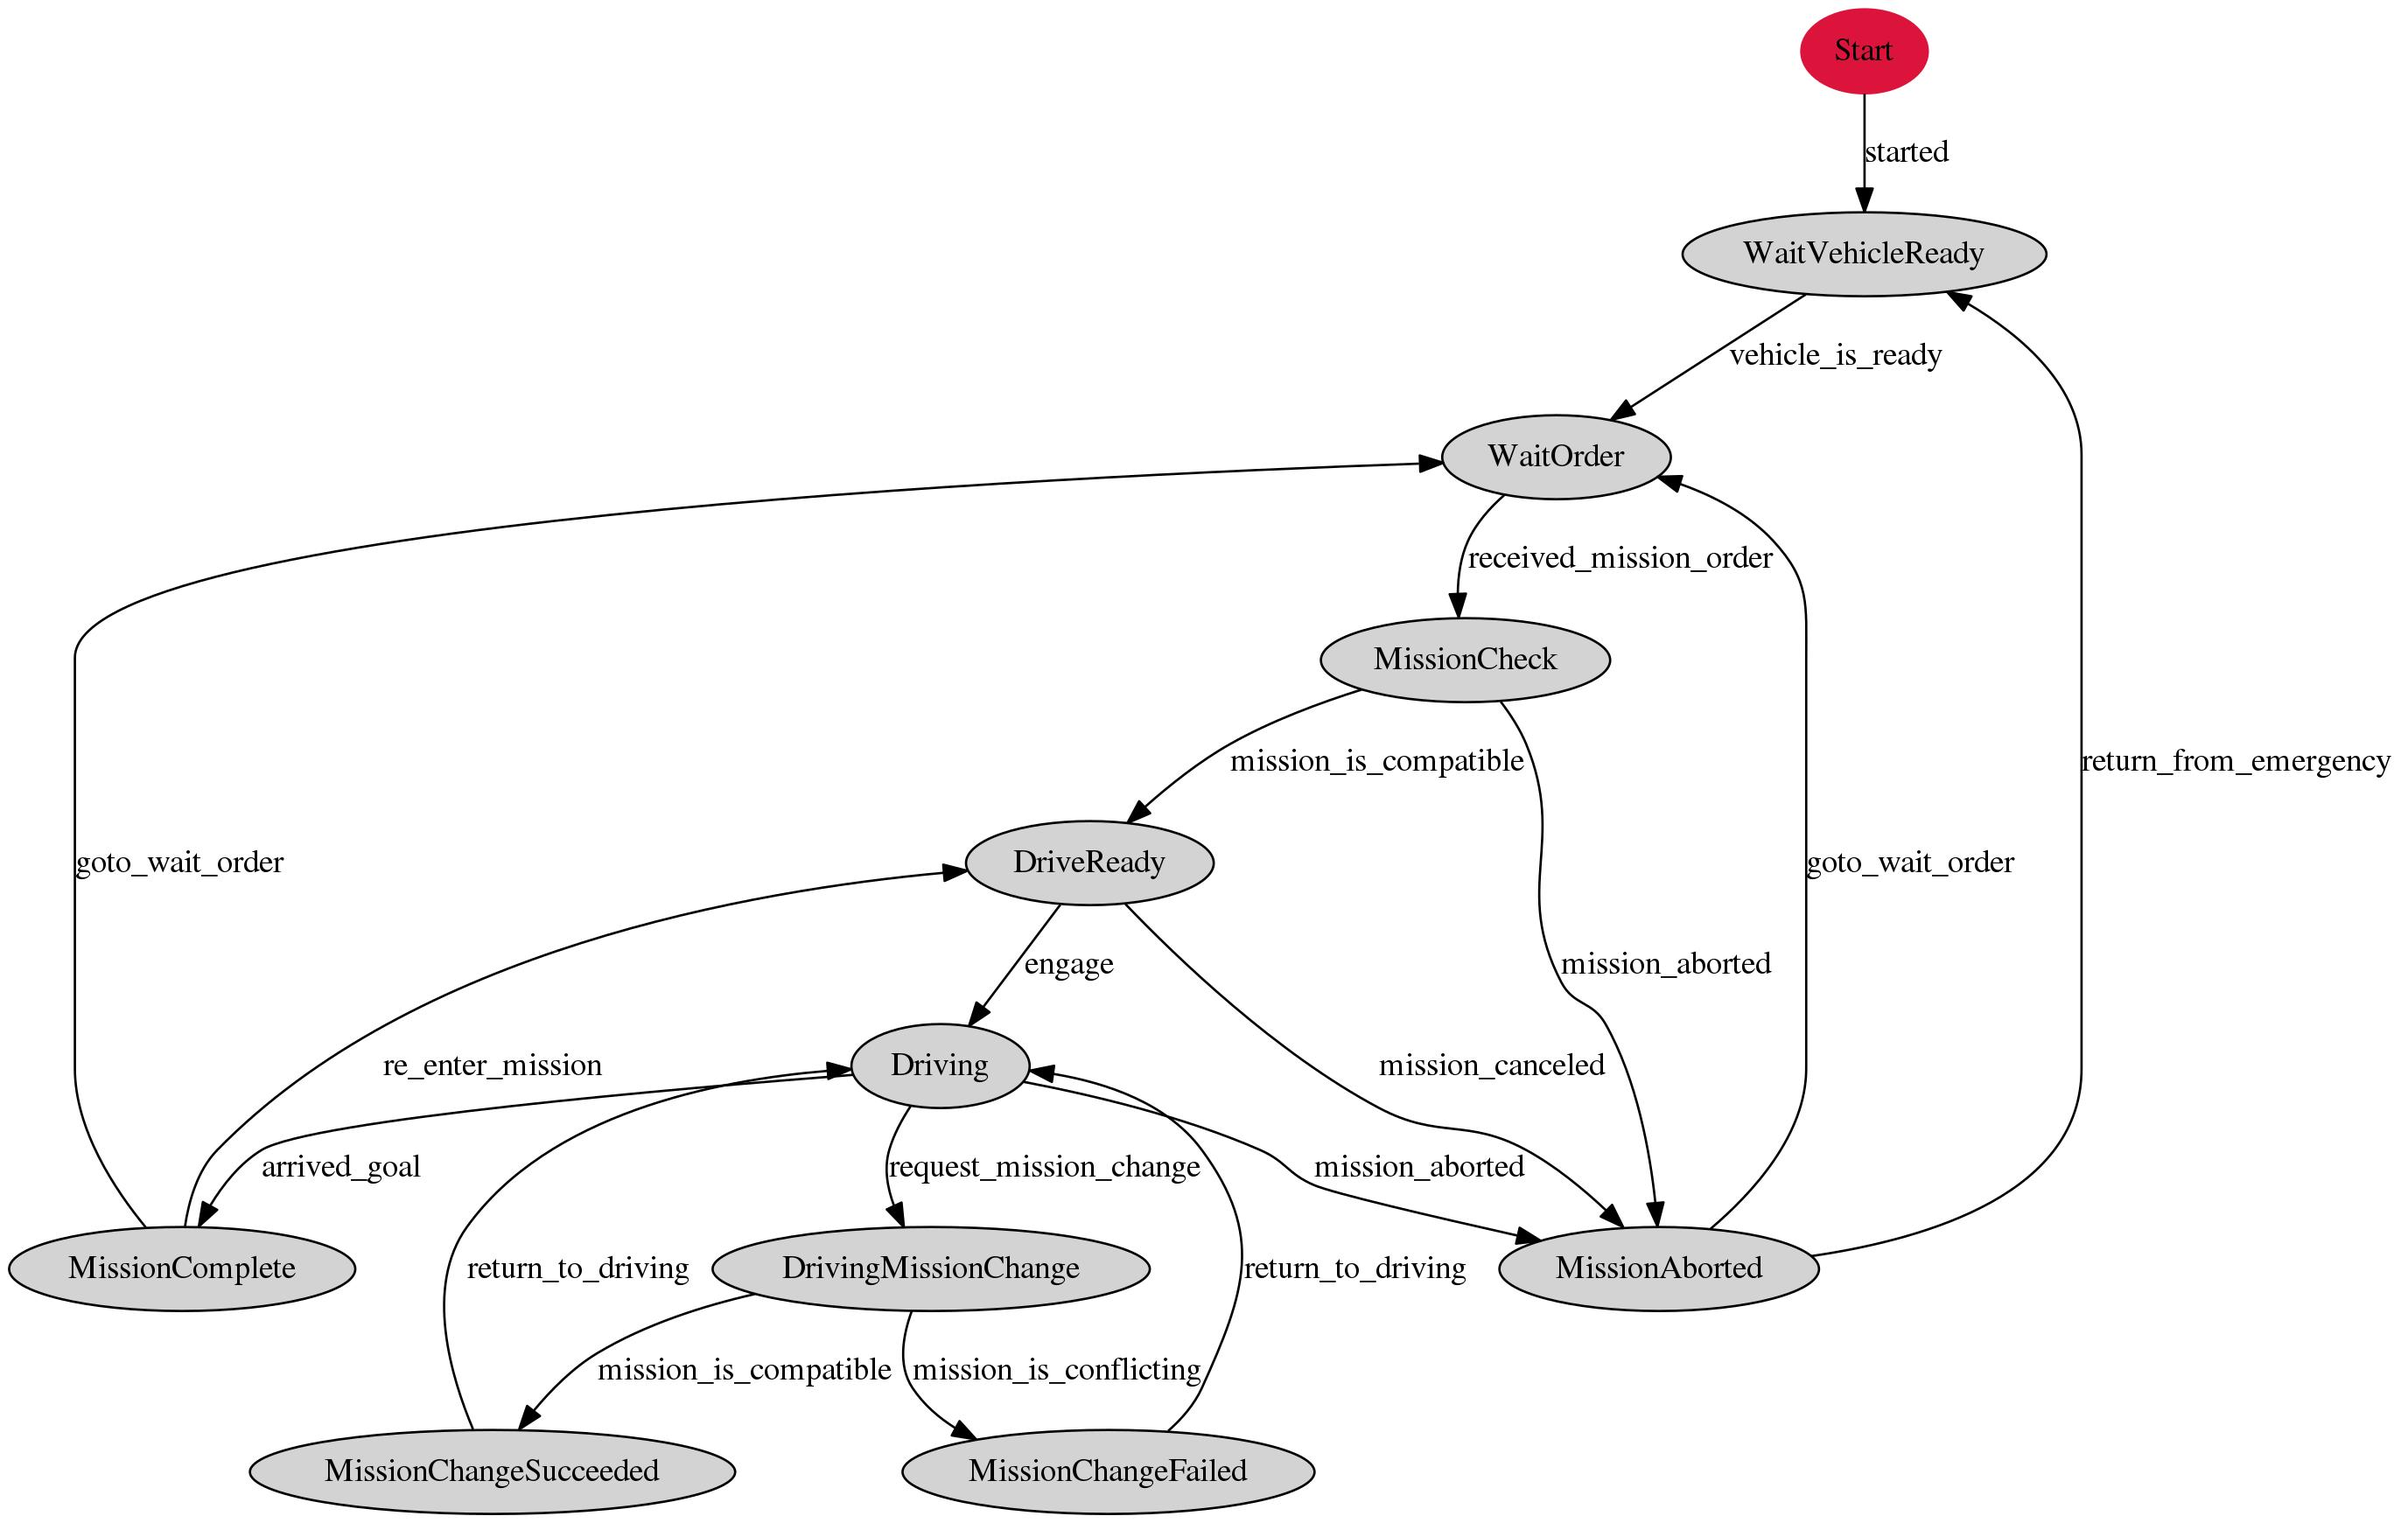
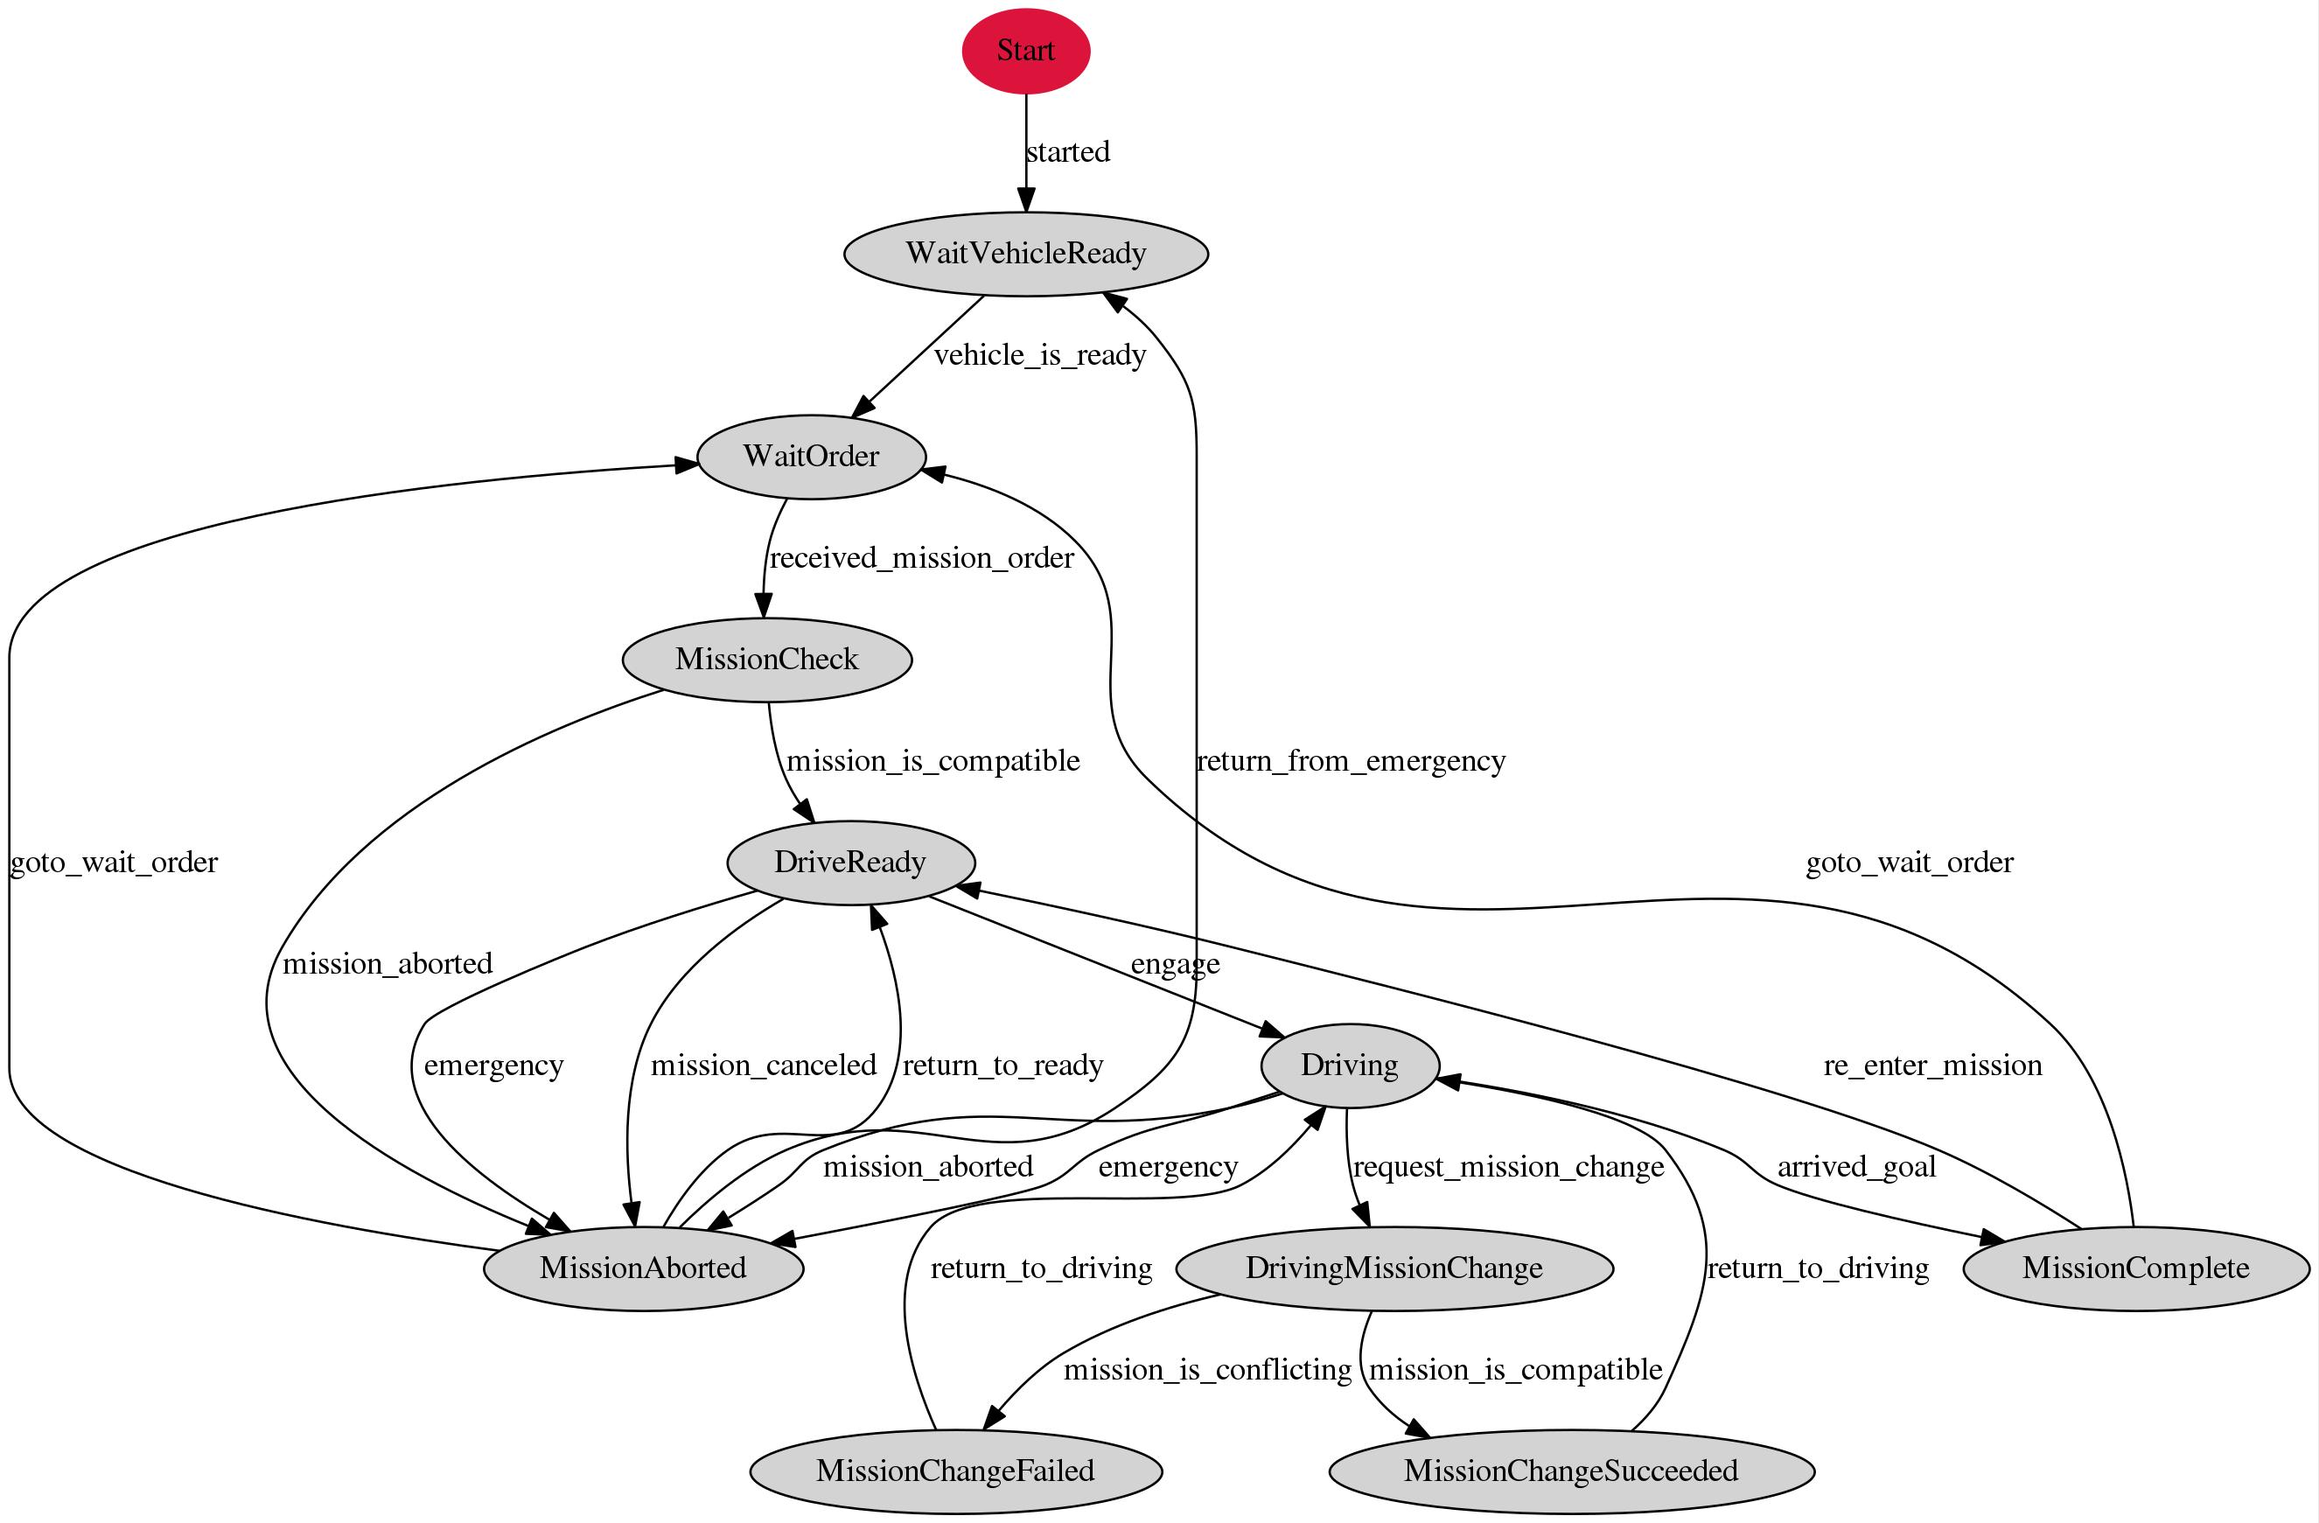
update README.md and jpg files in docs folder

diff --git a/ros/src/computing/planning/decision/packages/decision_maker/README.md b/ros/src/computing/planning/decision/packages/decision_maker/README.md
@@ -16,8 +16,9 @@ Each status is managed by state machine.
 ## Runtime Manager Parameters
 Parameter|Type|Description
 --|---|--
-enable_display_marker|Bool|(default: *false*)<br>not used
 auto_mission_reload|Bool|(default: *false*)<br>If this is set true, decision maker automatically reloads mission as new mission after previous mission is completed.
+auto_engage|Bool|(default: *false*)<br>If this is set true, decision maker automatically engage immediately after ready to drive.
+auto_mission_change|Bool|(default: *false*)<br>If this is set true, decision maker automatically change the mission(waypoint) without state_cmd when new mission is loaded while driving.
 use_management_system|Bool|(default: *false*)<br>This must be true in order to incoorporate with [Autoware Management System](https://github.com/CPFL/AMS)
 disuse_vector_map|Bool|(default: *false*)<br> If set *true*, decision_maker will exit "MapInitState" even if vector map is not successfully loaded.
 num_of_steer_behind|Int|(default: *20*)<br> lookup distance along waypoints to determine steering state(straight, turning right, or turning left)
@@ -64,16 +65,13 @@ Topic|Type|Objective
 /decision_maker/available_transition|std_msgs/String|available transition from current state
 /decision_maker/operator_help_text|jsk_rviz_plugins/OverlayText|Help message during operation
 /decision_maker/state|std_msgs/String|current state for "Vehicle", "Mission", and "Drive" state machine.
+/decision_maker/state_msg|autoware_msgs/State|current state for "Vehicle", "Mission", and "Drive" state machine with header.
 /lamp_cmd|autoware_msgs/LampCmd|blinker command to vehicle (0=straight, 1=right, 2=left)
 /lane_waypoints_array|autoware_msgs/LaneArray|waypoints passed down to following planners. (e.g. lane_rule)
 /light_color_managed|autoware_msgs/TrafficLight|meant to publish light_color status. Not implemented yet.
-/state/cross_inside_marker|visualization_msgs/Marker|visualization of objectes inside cross roads. Not implemented yet.
-/state/cross_road_marker|visualization_msgs/MarkerArray|visualization of crossroads. Not implemented yet.
-/state/crossroad_bbox|jsk_recognition_msgs/BoundingBoxArray| visualization of crossroads by bounding box. Not implemented yet.
 /decision_maker/state_overlay|jsk_rviz_plugins/OverlayText|Current state as overlay_txt.
-/state/stopline_target|visualization_msgs/Marker| Visualization of referenced stop line. Not implemented yet.
 /state/stopline_wpidx|std_msgs/Int32|Index of waypoint for the vehicle to stop.
-/target_velocity_array|std_msgs/Float64MultiArray| Array of target velocity obtained from final_waypoints.
+/decision_maker/target_velocity_array|std_msgs/Float64MultiArray| Array of target velocity obtained from final_waypoints.
 
 
 ## State Description
@@ -87,7 +85,7 @@ LocalizationInit|/current_pose|Waits until localizer is ready | Waits until curr
 PlanningInit|/closest_waypoint|Waits unil planners are ready | Subscriber is set for /closest_waypoint.
 VehicleInit|-|Waits until vehicle is ready for departure.|No implementation goes directly to vehilce ready state.
 VehicleReady|-|Vehicle is ready to move.|Exits to VehicleEmergency when `emergency` key is given by state_cmd from other states, or if `emergency_flag` is set true by other states.
-VehicleEmergency|-|Emergency is detected somewhere in the system. |Waits until `return_from_emergency` key is by /state_cmd (e.g. by DecisionMakerPanel)
+VehicleEmergency|-|Emergency is detected somewhere in the system. |Waits until `return_from_emergency` or `return_to_ready`  key is by /state_cmd (e.g. by DecisionMakerPanel)
 
 ### Mission States
 State name|Required topic|Description|Implementation
@@ -117,10 +115,6 @@ Stop|-|vehicle is stopping since stop signal is sent from other nodes (e.g. by s
 Wait|-|Vehilce is waiting (e.g. due to safety reason)|Publishes /state/stopline_wpidx with the index = closest_waypoint + 1.
 Go|-|Vehicle is moving|Throws found_stopline if stopline is nearby. Throws completely_stopped if vehicle stops due to obstacle.
 StopLine|/vector_map_info/stop_line|Vehicle is stopping due to stop line|Throws clear key after vehicle stops for 0.5 seconds.
-TryAvoidance|-|Vehicle trys to avoid obstacle. Not implemented yet|No implementation.
-CheckAvoidance|-|Checks if obstalce avoidance is safe or not. Not implemented yet|No implementation.
-Avoidance|-|Vehicle is avoiding obstacle. Not implemented.|No implementation.
-ReturnToLane|-|Goes back to lane after avoiding obstacle. Not implemented.|-
 LeftTurn|-|Vehicle is turning left at intersection. Change blinker to left. | Publish /lamp_cmd to change blinker.
 L_Stop|-|Same as Stop State|Same as Stop State
 L_Wait|-|Same as Wait State|Same as Wait State
@@ -142,10 +136,10 @@ ChangeToLeft|-|Change to left lane|No implementation.
 RightLaneChange|-|Vehicle is switching to right lane|publish /lamp_cmd to change blinker to right.
 CheckRightLane|-|Check if it is safe to change lane to left|No implementation.
 ChangeToRight|-|Change to left lane|No implementation.
-BusStop|-|Vehicle is approaching to bus stop| No implementation.
+BusStop|-|Vehicle is approaching to bus stop(not supported yet)| No implementation.
 PullIn|-|Vehicle is pulling in to bus stop| publish /lamp_cmd to change blinker to left.
 PullOut|-|Vehicle is pulling out from bus stop|publish /lamp_cmd to change blinker to right.
-FreeArea|-|Vehicle is driving in free space(e.g. parking area)|No implementation.
+FreeArea|-|Vehicle is driving in free space(e.g. parking area, not supported yet)|No implementation.
 Parking|-|Vehicle is parking|Publish /lamp_cmd to change blinker to hazard.  
 
 
@@ -159,23 +153,13 @@ Parking|-|Vehicle is parking|Publish /lamp_cmd to change blinker to hazard.
 5. When the vehicle reaches the end of waypoint and stops, state Mission state transits to `WaitOrder` via the `MissionComplete`
 6. You can repeat from 3. with other waypoint
 
-### Move backward
-
 ### Lane change
   1. Start Normal driving with waypoint files necessary for lane change
   2. On `CheckLeft` or `RightLane` state, push `Execute LaneChange` button on DecisionMakerPannel
   3. The vehicle start lane change
-
-### Stop at stop line
 
 ### Driving mission change
   1. Prepare waypoint files to change, and start Normal driving
   2. On `Driving` state, push `Request mission change` button on DecisionMakerPannel
   3. When the state becomes `DrivingMissionChange`, please load another waypoint for change
   4. If it is possible to change the waypoint will switch, otherwise it will not be changed
-
-### Obstacle avoidance
-
-### Pull in & Pull out
-
-### Emergency stop
